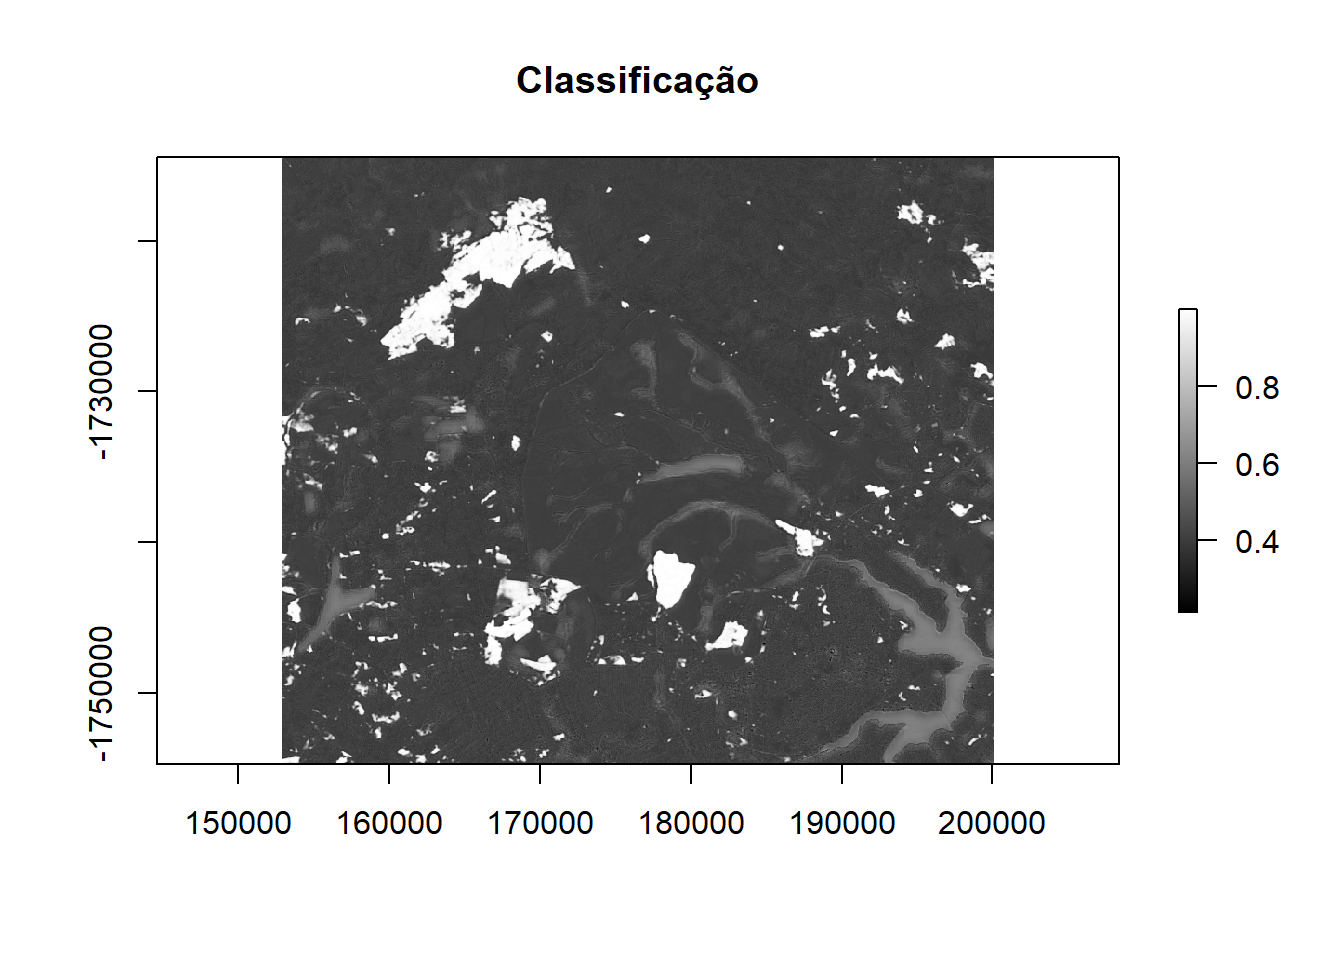
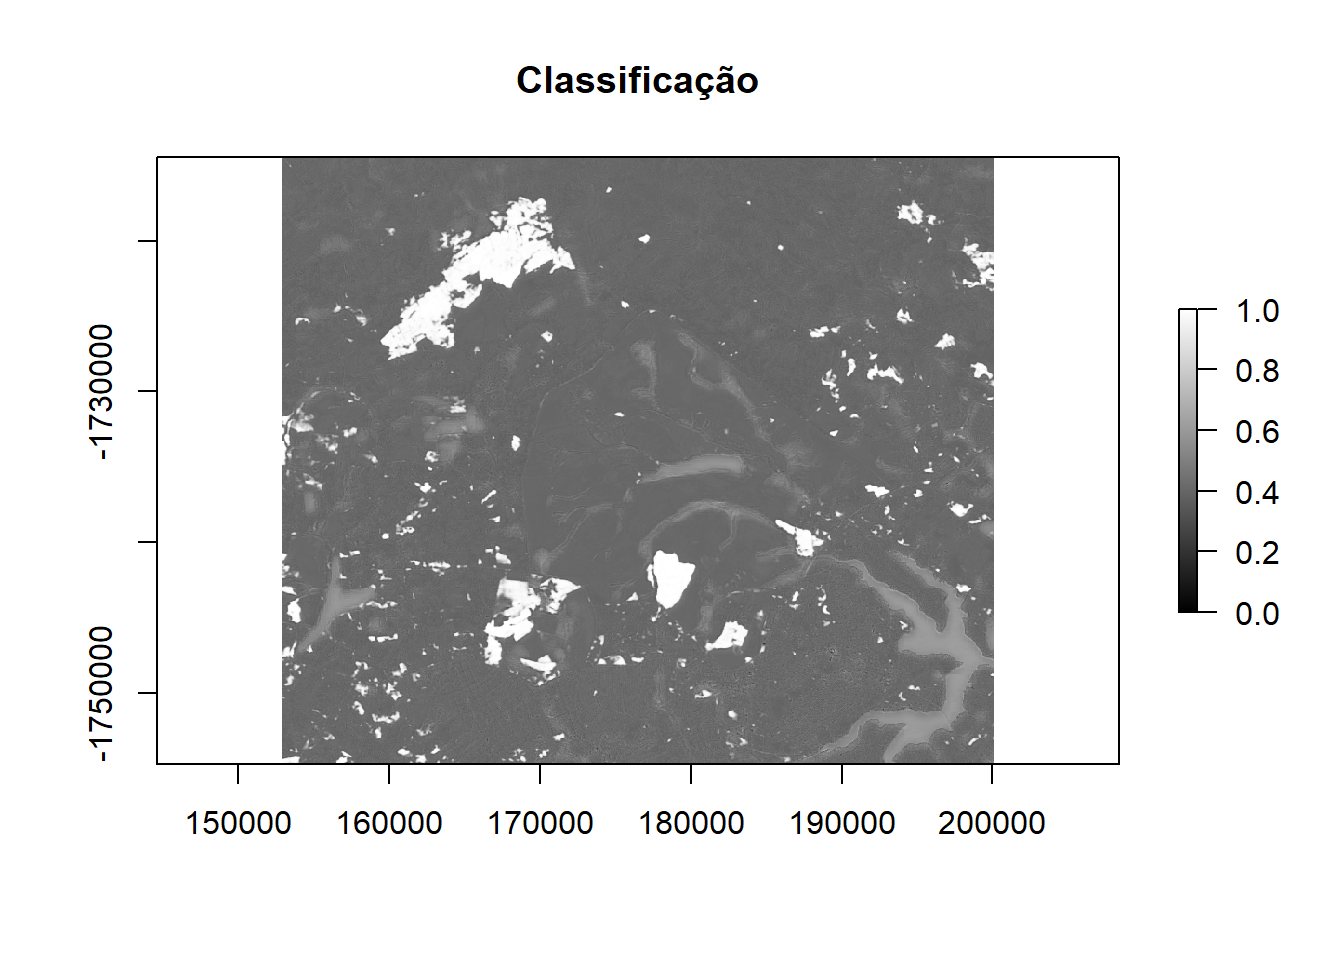
test

diff --git a/auc.html b/auc.html
@@ -366,7 +366,7 @@ classif = raster(&quot;rasters/class_resunet.tif&quot;)</code></pre>
 <p>Visualisar as imagens:</p>
 <pre class="r"><code>cols = colorRampPalette(c(&#39;black&#39;,&#39;white&#39;))
 plot(ground_truth, main = &quot;Ground Truth&quot;, col = cols(2), legend = FALSE)
-plot(classif, main = &quot;Classificação&quot;, col = cols(255))</code></pre>
+plot(classif, main = &quot;Classificação&quot;, col = cols(255), zlim=c(0,1))</code></pre>
 <p><img src="auc_files/figure-html/unnamed-chunk-4-1.png" width="672" style="display: block; margin: auto;" /><img src="auc_files/figure-html/unnamed-chunk-4-2.png" width="672" style="display: block; margin: auto;" /></p>
 <p>Conversão dos objetos de raster para vetor:</p>
 <pre class="r"><code>ground_truth = as.vector(ground_truth)
